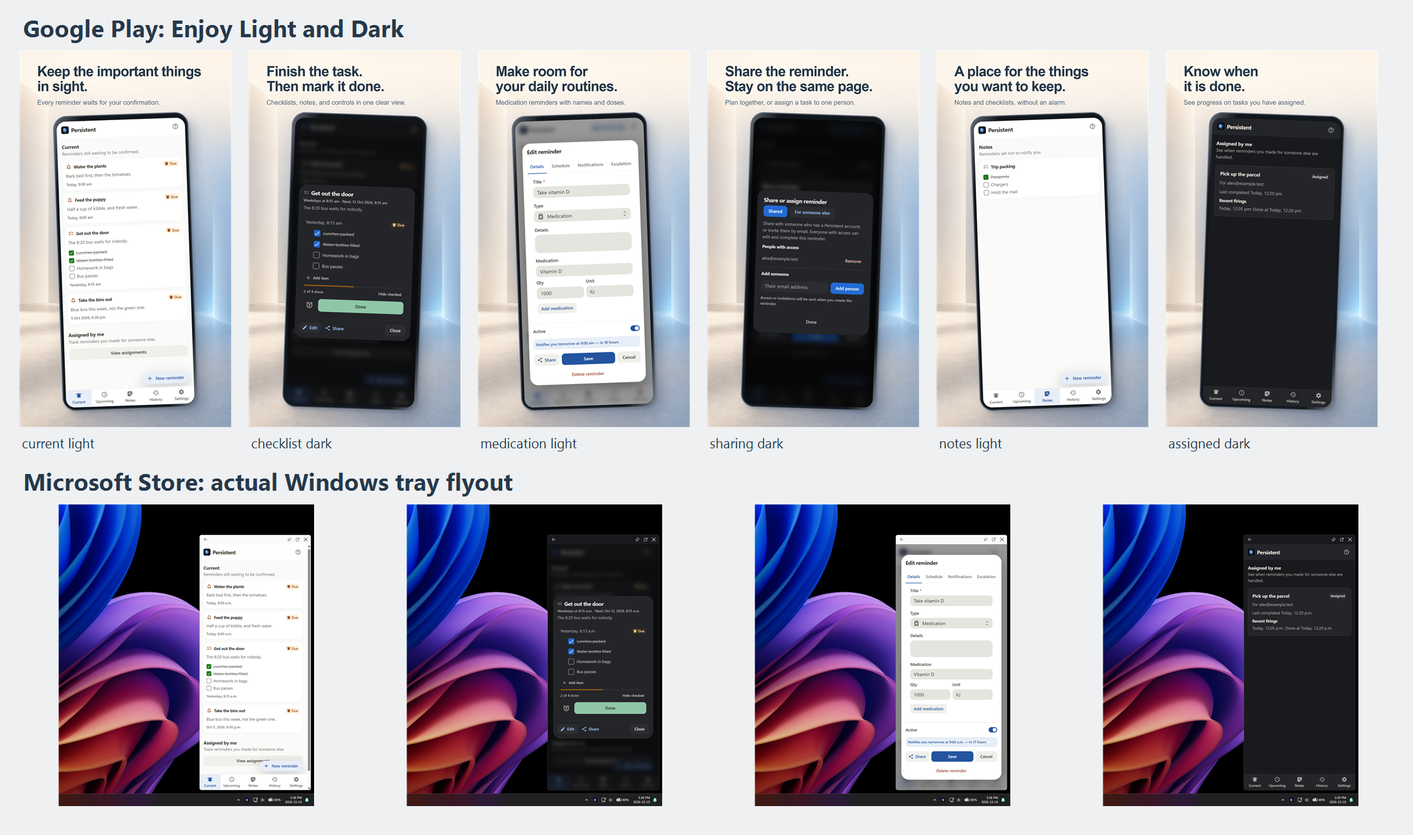
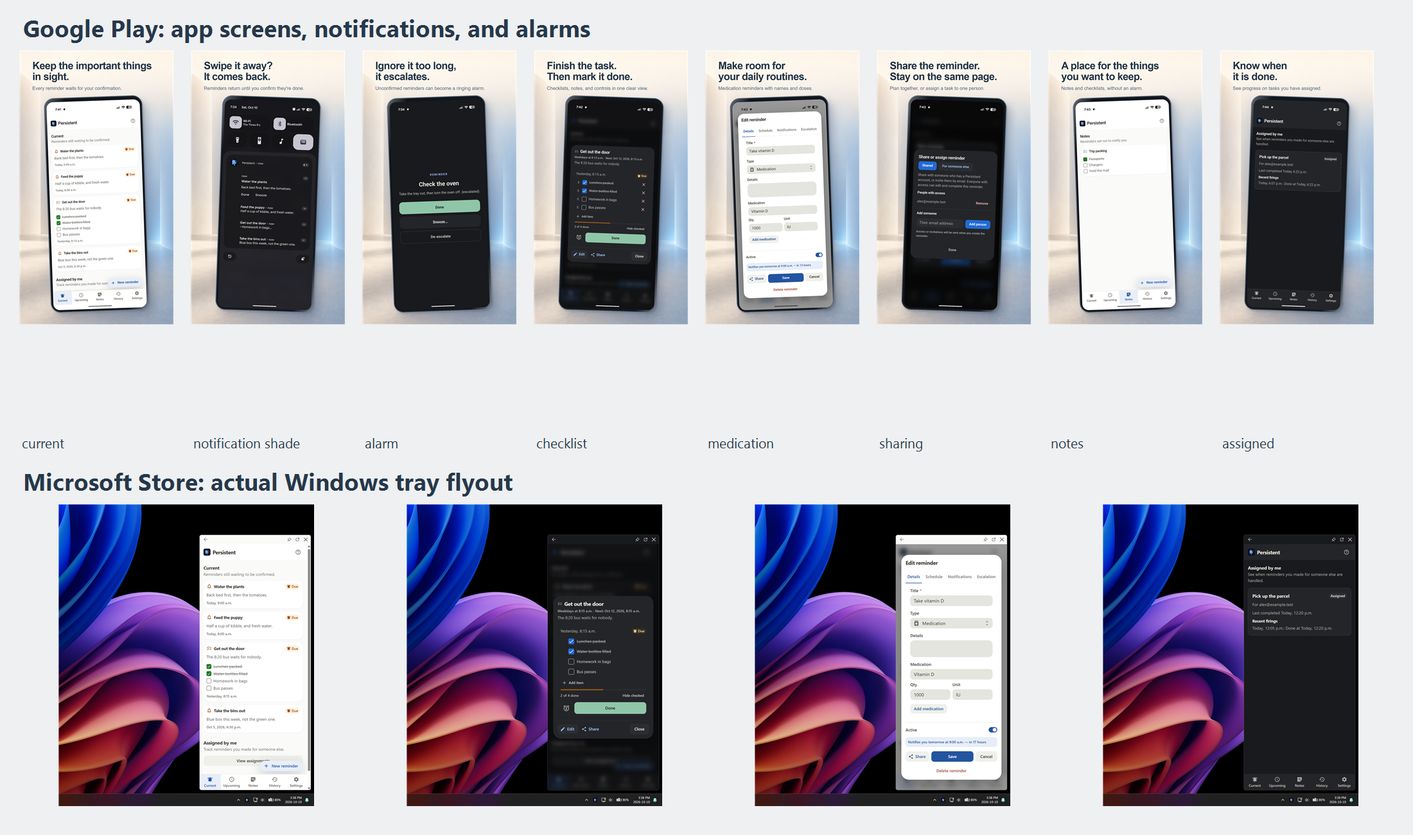
Refresh Play screenshots with native notifications and escalation
Capture all eight views on the isolated Pixel demo app with real status and gesture bars. Put returning notifications and ignored-reminder escalation near the start of the carousel, without duplicate reminders, unrelated notification icons, or theme names in image copy.

Update the repeatable capture workflow, listing gallery, root embeds, mobile guidance and screenshot skill. Reviewed desktop and notification contracts, auth/data isolation, environment settings, build descriptors and script comments. Native device data stays synthetic; no personal app data or domain queries change. Store checks and repository validation pass. Align the development SDK with the existing Android overlay.

Changed region(s): [[0.0, 0.0308, 0.9891, 0.5538]]

diff --git a/scripts/dev/render-store-assets.ts b/scripts/dev/render-store-assets.ts
@@ -42,7 +42,7 @@ const review = `<!doctype html><html lang="en"><meta charset="utf-8"><title>Pers
 <style>
 * { box-sizing: border-box; } body { margin: 0; padding: 28px; width: 1440px; height: 730px; background: #eef0f2; color: #26384a; font: 16px Arial, sans-serif; }
 h1 { font-size: 26px; margin: 0 0 16px; } h2 { font-size: 20px; margin: 20px 0 12px; }
-.play { display: grid; grid-template-columns: repeat(6,1fr); gap: 14px; }
+.play { display: grid; grid-template-columns: repeat(${manifest.play.length},1fr); gap: 14px; }
 .desktop { display: grid; grid-template-columns: repeat(4,1fr); gap: 14px; }
 figure { margin: 0; } img { width: 100%; display: block; border-radius: 6px; }
 .play img { height: 390px; object-fit: contain; } .desktop img { height: 178px; object-fit: contain; }

diff --git a/scripts/dev/store-assets.ts b/scripts/dev/store-assets.ts
@@ -92,6 +92,7 @@ function check(): void {
     if (store !== 'play' && store !== 'microsoft') continue
     if (selectedStore && selectedStore !== store) continue
     if (shots.length < 4) throw new Error(`${store}: expected at least four curated screenshots`)
+    if (store === 'play' && shots.length > 8) throw new Error('play: the carousel supports at most eight screenshots')
     for (const shot of shots) {
       const png = readFileSync(resolve('store-assets', shot.file))
       const { width, height } = validateStoreImage(png, store)

diff --git a/store-assets/README.md b/store-assets/README.md
@@ -20,22 +20,86 @@ Sign in to that account on the local development origin. The development email-c
 
 ## Google Play
 
-Use the existing shared Paseo tab. Set its viewport to **448 x 998 CSS pixels**. Capture these six scenarios in manifest order:
+Use the isolated demo Android app on the physical phone, following the native
+capture setup below. Capture the full display for all eight images, including the
+real status area and gesture bar. Both bars must be readable against the selected
+theme, and unrelated notification icons must be absent. Do not add simulated
+system chrome or hide another app's notifications without permission. Capture
+these six app scenarios; the manifest determines final carousel order:
 
 1. Current, Enjoy Light. The plants, puppy, and part-completed morning checklist are visible.
 2. Open “Get out the door” in its reading dialog, Enjoy Dark. Do not toggle items or Done.
 3. Edit “Take vitamin D”, Enjoy Light, showing the synthetic medicine name and 1000 IU dose. Do not save.
-4. Create a draft reminder and open Share, Enjoy Dark. Stage `alex@example.test` in the dialog without saving or sending an invitation. Use `browser_type` for controlled fields and verify their state; `browser_fill` can report success without updating React state.
+4. Create a draft reminder and open Share, Enjoy Dark. Stage `alex@example.test` in the dialog without saving or sending an invitation. Use ordinary input or the existing debug WebView endpoint for controlled fields and verify their state.
 5. Notes, Enjoy Light, showing “Trip packing”.
 6. Assigned by me, Enjoy Dark, showing the completed synthetic parcel pickup.
 
-Save the PNG image block from each Paseo screenshot to the `source` path in the manifest. The helper accepts base64 on stdin: `node --import tsx scripts/dev/store-assets.ts save store-assets/raw/android/...png`. It never logs image data. Keep raw captures alongside the final exports so future caption/frame edits do not require recapturing the UI.
+The final carousel also includes the real notification shade and alarm described
+below, immediately after Current, for eight images total. Eight is the Play
+carousel limit. Keep marketing copy focused on the feature; do not put theme
+names in the exported images. The notification image leads with the defining
+behavior: swiping a reminder away does not complete it, and it returns until the
+user explicitly confirms completion.
+
+Save each full native capture to the `source` path in the manifest after the RGB conversion below. For Paseo composition exports, the helper accepts base64 on stdin: `node --import tsx scripts/dev/store-assets.ts save store-assets/raw/android/...png`. It never logs image data. Keep raw captures alongside the final exports so future caption/frame edits do not require recapturing the UI.
 
 Run `npm run shots:render`. Navigate the Paseo tab to each generated HTML layout through Vite, for example `http://localhost:<web-port>/@fs/workspace/store-assets/render/00-current-light.html`. Set **720 x 1280 CSS pixels**, wait for the captured image to load, then screenshot. On the current Windows Paseo host, DPR 1.5 produces **1080 x 1920**. Check actual dimensions, rather than assuming the host's DPR. If another host differs, adjust the CSS viewport and renderer canvas together to produce the same export dimensions.
 
 The mockups use a small alternating angle and reusable CSS phone frame. The app pixels come exclusively from the raw screenshots. The saved background and generation prompt are in `marketing/`; reuse them for consistency. Google recommends avoiding device imagery and skew, but this carousel deliberately includes those stylized mockups at Ryan's request.
 
 After inspection, run `npm run shots:sync`. It validates all exports, copies the curated Play files into `../apps/mobile/store/graphics/screenshots/`, and removes superseded PNGs from that upload directory. README embeds the same files. Preserve native permission demonstration videos, which serve a separate purpose.
+
+### Real Android capture setup and native scenarios
+
+Use an explicitly authorized physical-device session and the `test-android-device`
+skill. Read the shared home-devices guide before connecting to `phone.home`;
+wireless debugging ports rotate. Keep the phone unlocked with the shared helper's
+temporary input keepalive, never by changing display or lock settings.
+
+Keep the Store app and its personal account intact. Use the separate direct-debug
+package, `ca.persistent.app`, with the protected demo account. In the existing Node
+development container, build with `PERSISTENT_ANDROID_DEV_URL=http://localhost:5173
+npm run android:build`, then install only the direct-debug APK. Forward the device's
+port 5173 to the local web port with `adb -s <serial> reverse tcp:5173 tcp:<web-port>`.
+Confirm the synthetic account in the app before proceeding. Enable notifications
+and display-over-other-apps only for this demo package through the ordinary Android
+permission screens. Both packages are named Persistent, so verify `ca.persistent.app`
+and the demo version on App Info before changing a Settings toggle.
+
+For the shade, expand the real Persistent notification group and the plant
+reminder until Done and Snooze are visible. Do not press either. Inspect for
+personal notifications and network names before saving an asset. Any crop or
+retouch needs an explicit framing decision; do not clear personal notifications
+or change network settings to clean up the shot.
+
+For the escalation alarm, select Enjoy Dark and let its native appearance synchronize. Create
+one temporary synthetic reminder named "Check the oven", with body "Take the tray
+out, then turn the oven off.", When set to Now, persistence set to Persistent,
+and escalation set to one minute. Use the ordinary app/API flow and leave the
+reminder unconfirmed until it actually escalates. Capture after the native launch
+animation settles, with Done, Snooze, and De-escalate visible. Verify there are no
+other app notification icons in the status bar. Then force-stop only the demo package
+to stop the sound promptly. Delete only the newly created reminder from the
+verified local demo account. Never press Done for a screenshot.
+
+Capture the actual screen with `adb -s <serial> exec-out screencap -p > <path>.png`.
+The Pixel 9 Pro source is 960 x 2142. Android captures are RGBA; run
+`scripts/dev/convert-store-capture.ps1` with `-InputPath` and `-OutputPath` to save
+the same dimensions and pixels as Store-compatible RGB. It uses the existing
+Windows image runtime. If RemoteSigned rejects a WSL UNC script, execute a
+reviewed copy from an owned Windows TEMP path, then remove that copy. Do not
+change execution policy or install an image tool.
+
+Use the saved native PNG in the manifest and render it through Paseo in the same
+phone composition as the app screens. After capturing, force-stop the demo app,
+remove this session's ADB reverse/forward mappings and on-device inspection files,
+and stop its owned keepalive. Leave the Store app, personal data, pairing keys,
+and original display timeout unchanged.
+
+Inspect immediately before each capture: live Android notifications can arrive
+while waiting. Keep only Persistent's notification icon and the ordinary Android
+status indicators in exported native screenshots. Obtain approval for any retouch
+or unrelated notification dismissal; an already clean real capture is preferable.
 
 ## Microsoft Store
 
@@ -66,9 +130,13 @@ Verify the original settings and Store process are restored, then remove only th
 
 ## Verify and review
 
-Run `npm run shots:check` and `npm run validate`. Generate the contact sheet without a browser using Windows PowerShell 7: `scripts/dev/render-store-review.ps1 -AssetsRoot <absolute Windows path to store-assets>`. It reads the saved PNGs and writes `review.png`, without changing the store exports. The HTML renderer also writes `render/review.html` for interactive review. Inspect all ten final images, not just dimensions: no clipped dialogs, loading frames, missing labels, personal data, stale themes, or duplicate reminder cards. Keep Play text above the phone and concise. Record the tested source revision and capture date when refreshing; do not upload screenshots for a theme that has not shipped without coordinating the app update.
+Run `npm run shots:check` and `npm run validate`. Generate the contact sheet without a browser using Windows PowerShell 7: `scripts/dev/render-store-review.ps1 -AssetsRoot <absolute Windows path to store-assets>`. It reads the saved PNGs and writes `review.png`, without changing the store exports. The HTML renderer also writes `render/review.html` for interactive review. Both previews adapt to the manifest's Play image count. Inspect every final image, not just dimensions: no clipped dialogs, loading frames, missing labels, personal data, stale themes, or duplicate reminder cards. Keep Play text above the phone and concise. Record the tested source revision and capture date when refreshing; do not upload screenshots for a theme that has not shipped without coordinating the app update.
 
-The Microsoft set was captured October 10, 2026 from the development working tree. Microsoft uses the sideloaded 0.5.8.2 native app; Play app content is browser-captured, with no native alarm or notification-shade claim.
+The Microsoft set was captured October 10, 2026 from the development working tree,
+using the sideloaded 0.5.8.2 native app. Play uses eight full-display Pixel 9 Pro captures. The six app views include
+the theme-aware Android status icon and gesture bar fix at `5310573`; the
+notification and escalation captures were taken from source revision `b3c0500`.
+The native capture provenance is recorded in `raw/android/native/README.md`.
 
 ## Publishing an approved refresh
 

diff --git a/apps/mobile/store/listing.md b/apps/mobile/store/listing.md
@@ -111,7 +111,7 @@ apps/mobile/store/listing.md --check` before publishing.
 | --- | --- | --- |
 | App icon | 512×512 PNG, 32-bit, no transparency | ✅ `graphics/play-icon.png` |
 | Feature graphic | 1024×500 PNG/JPG, no transparency | ✅ `graphics/feature-graphic.png` |
-| Phone screenshots | 2–8, min 320px, 16:9 or 9:16 | ✅ 6 in `graphics/screenshots/` (see below) |
+| Phone screenshots | 2–8, min 320px, 16:9 or 9:16 | ✅ 8 in `graphics/screenshots/` (see below) |
 | 7" / 10" tablet screenshots | optional | ❌ optional |
 
 Sources are `graphics/*.svg`; re-render with
@@ -120,14 +120,15 @@ Sources are `graphics/*.svg`; re-render with
 ### Capturing more
 
 Use the [repeatable store screenshot workflow](../../../store-assets/README.md).
-It prepares a protected synthetic demo account, captures current app screens in
-the shared Paseo browser, and renders reusable phone mockups. `npm run shots`
+It prepares a protected synthetic demo account, captures all eight source screens
+in the isolated Android demo app, and renders reusable phone mockups through the
+shared Paseo browser. `npm run shots`
 prints the workflow entrypoint; it does not launch or install a browser.
 
 **Always capture against the demo account, never a real one.** The owner's real
 account contains actual prescriptions; a Play listing is public and permanent.
-Native alarm and notification-shade shots require a separately requested device
-session. Keep native permission demonstration videos separate from the carousel.
+Native captures require a separately requested device session. Every image
+includes the real status area and gesture bar, with no unrelated notification icons. Keep native permission demonstration videos separate from the carousel.
 
 ---
 
@@ -216,30 +217,37 @@ forms before marking this complete.
 
 ## Captured screenshots
 
-All six live in `graphics/screenshots/`, captured in Paseo against the seeded demo
-account with synthetic health data only. The Enjoy Light/Dark app captures are
-composed inside reusable phone mockups. All exports are 1080 x 1920 RGB PNGs.
+All eight live in `graphics/screenshots/`, using the seeded demo account with
+synthetic health data only. All eight are full-display Pixel 9 Pro captures with
+the real status area and gesture bar, and no unrelated notification icons.
+All are composed in Paseo
+inside reusable phone mockups, with 1080 x 1920 RGB PNG exports. Marketing copy
+describes the feature without theme names.
 Ordered as they should appear in Play:
 
 | File | Shows | Theme |
 | --- | --- | --- |
 | `00-current-light.png` | Current reminders for plants, puppy, and the morning checklist | Enjoy Light |
-| `01-checklist-dark.png` | Reading dialog with a part-completed checklist and reminder controls below it | Enjoy Dark |
-| `02-medication-light.png` | Synthetic vitamin reminder editor with medicine name and 1000 IU dose | Enjoy Light |
-| `03-sharing-dark.png` | Share or assign dialog with a staged sample recipient | Enjoy Dark |
-| `04-notes-light.png` | Trip-packing note checklist, without an alarm | Enjoy Light |
-| `05-assigned-dark.png` | Assigned by me status with a synthetic completion record | Enjoy Dark |
+| `01-notification-shade.png` | Four distinct reminders, native Done and Snooze actions, and copy explaining that swiped notifications return until confirmed | Android system |
+| `02-alarm-dark.png` | Real ignored-reminder escalation into an alarm with Done, Snooze, and De-escalate controls | Enjoy Dark |
+| `03-checklist-dark.png` | Reading dialog with a part-completed checklist and reminder controls below it | Enjoy Dark |
+| `04-medication-light.png` | Synthetic vitamin reminder editor with medicine name and 1000 IU dose | Enjoy Light |
+| `05-sharing-dark.png` | Share or assign dialog with a staged sample recipient | Enjoy Dark |
+| `06-notes-light.png` | Trip-packing note checklist, without an alarm | Enjoy Light |
+| `07-assigned-dark.png` | Assigned by me status with a synthetic completion record | Enjoy Dark |
 
-The root README embeds `00`, `01`, and `03` from this directory, without separate
-copies. Native alarm and notification-shade shots were replaced with current app
-screens for this browser-based refresh. Native permission videos remain separate.
+The root README embeds `00`, `03`, and `05` from this directory, without separate
+copies. Native permission videos remain separate.
 No screen repeats a reminder as two near-identical cards.
 
 ### Regenerating
 
 Use [store-assets/README.md](../../../store-assets/README.md) and its manifest.
-Prepare the synthetic fixture once, capture the six app screens through the shared
-Paseo browser, then render the phone layouts and capture their final exports:
+Prepare the synthetic fixture, capture all eight screens in the isolated Android
+demo app through the authorized device session, then render
+the phone layouts and capture their final exports. If waiting has allowed another
+scheduled firing to create duplicate demo cards, refresh the protected fixture
+before capture and synchronize the demo app again:
 
 ```sh
 npm run shots:prepare -- --email=ryan.ewen+persistentdemo@gmail.com
@@ -248,7 +256,7 @@ npm run shots:check
 npm run shots:sync
 ```
 
-`shots:prepare` runs in the isolated development stack; the browser capture steps
+`shots:prepare` runs in the isolated development stack; the capture and render steps
 between commands are documented in the workflow. `shots:sync` replaces the local
 upload directory only. Publish the listing separately when requested.
 

diff --git a/store-assets/raw/android/native/README.md b/store-assets/raw/android/native/README.md
@@ -1,0 +1,42 @@
+# Native Android capture provenance
+
+Captured October 10, 2026 on Ryan's Pixel 9 Pro using native source `b3c0500` for the shade and alarm. The six app views use
+the theme-aware status icon and gesture bar fix committed as `5310573`. The separate direct-debug package is `ca.persistent.app`, with the
+local debug version label 0.21.1. It loads the local development app through an
+ADB reverse connection and is signed in only to the protected synthetic demo
+account. The installed Store package and its signed-in personal account were
+preserved.
+
+- `00-current-light.png`, `03-checklist-dark.png`, `04-medication-light.png`,
+  `05-sharing-dark.png`, `06-notes-light.png`, and `07-assigned-dark.png`: actual
+  full-display app screens with the real status area and gesture bar. Light themes
+  use dark system icons, and dark themes use light icons. Only Persistent's
+  notification icon is present. The sharing recipient is staged in an unsaved
+  draft, and the medication editor was not saved.
+- `01-notification-shade.png`: actual Android shade with four distinct demo
+  reminders, and the plant reminder's real Done and Snooze controls expanded.
+  Ryan approved retaining the full shade, including the Wi-Fi network name.
+- `02-alarm-dark.png`: actual native escalation of a temporary "Check the oven"
+  reminder, created through the ordinary authenticated local API with Persistent
+  notifications and a one-minute escalation. It remained unconfirmed and then
+  showed the real alarm with Done, Snooze, and De-escalate. Its native appearance
+  was synchronized from Enjoy Dark. The demo app was force-stopped promptly after
+  capture, and only that newly created reminder was deleted. The replacement
+  capture has only Persistent's notification icon, with no Paseo or other app icon.
+
+All eight source captures are 960 x 2142. They were reencoded from opaque RGBA to
+24-bit RGB through `convert-store-capture.ps1`, without cropping, scaling, or
+retouching. Final phone compositions were captured in the shared Paseo browser
+at 720 x 1280 CSS pixels and DPR 1.5, producing 1080 x 1920 exports.
+
+No reminder was completed by a capture action. Notifications and overlay access
+were enabled only for the demo package using ordinary Android permission screens.
+Exact-alarm and full-screen-intent readiness also reported enabled. This session
+observed native notification actions and a real one-minute escalation into the
+alarm surface; it did not
+qualify offline delivery, lock-screen delivery, or swipe-return reliability.
+
+Cleanup: demo app force-stopped, temporary ADB forward/reverse mappings removed,
+on-device inspection XML removed, owned keepalive stopped, and phone returned to
+Paseo. The original 120000 ms display timeout was verified unchanged. The separate
+demo app remains installed and stopped for future refreshes.

diff --git a/store-assets/play/README.md b/store-assets/play/README.md
@@ -1,6 +1,6 @@
 # Google Play screenshot review
 
-Six 1080 x 1920 RGB PNGs, with real app captures and synthetic data. Both Enjoy themes are represented. Uploading is a separate step.
+Eight 1080 x 1920 RGB PNGs, with real app captures and synthetic data. Includes the real Android notification shade and escalation alarm. Uploading is a separate step.
 
 ## Keep the important things in sight.
 
@@ -8,32 +8,44 @@ Every reminder waits for your confirmation.
 
 ![Enjoy Light Current view with plants, puppy, and a part-completed morning checklist.](00-current-light.png)
 
+## Swipe it away? It comes back.
+
+Reminders return until you confirm they're done.
+
+![Real Pixel 9 Pro notification shade with four distinct synthetic reminders and expanded plant reminder Done and Snooze actions.](01-notification-shade.png)
+
+## Ignore it too long, it escalates.
+
+Unconfirmed reminders can become a ringing alarm.
+
+![Real Pixel 9 Pro escalated alarm for the synthetic Check the oven reminder, with native Done, Snooze, and De-escalate controls.](02-alarm-dark.png)
+
 ## Finish the task. Then mark it done.
 
 Checklists, notes, and controls in one clear view.
 
-![Enjoy Dark reading dialog with a morning checklist and Done and Snooze controls below it.](01-checklist-dark.png)
+![Enjoy Dark reading dialog with a morning checklist and Done and Snooze controls below it.](03-checklist-dark.png)
 
 ## Make room for your daily routines.
 
 Medication reminders with names and doses.
 
-![Synthetic vitamin D reminder editor in Enjoy Light with a 1000 IU dose.](02-medication-light.png)
+![Synthetic vitamin D reminder editor in Enjoy Light with a 1000 IU dose.](04-medication-light.png)
 
 ## Share the reminder. Stay on the same page.
 
 Plan together, or assign a task to one person.
 
-![Enjoy Dark sharing dialog with a staged synthetic recipient, Alex.](03-sharing-dark.png)
+![Enjoy Dark sharing dialog with a staged synthetic recipient, Alex.](05-sharing-dark.png)
 
 ## A place for the things you want to keep.
 
 Notes and checklists, without an alarm.
 
-![Enjoy Light Notes view showing a trip-packing checklist.](04-notes-light.png)
+![Enjoy Light Notes view showing a trip-packing checklist.](06-notes-light.png)
 
 ## Know when it is done.
 
 See progress on tasks you have assigned.
 
-![Enjoy Dark Assigned by me view with synthetic parcel pickup completion.](05-assigned-dark.png)
+![Enjoy Dark Assigned by me view with synthetic parcel pickup completion.](07-assigned-dark.png)

diff --git a/.agents/skills/store-screenshots/SKILL.md b/.agents/skills/store-screenshots/SKILL.md
@@ -7,7 +7,10 @@ Read [the capture workflow](../../../store-assets/README.md). The manifest owns 
 
 Prepare the dedicated demo fixture in the isolated development database. Verify the signed-in account before capturing; never seed or capture a personal account. Reuse the existing seeded scenarios, including the synthetic vitamin dose and sample recipient. Do not complete reminders or send invitations for a screenshot.
 
-Use the shared Paseo browser for app screens and mockup rendering. If the host cannot paint a screenshot, request activation of the existing tab and continue independent work. Do not install or launch a separate browser.
+Use full-display captures from the isolated Android demo app for every Play source
+screen, including the real status area and gesture bar. Verify readable system
+icons in both themes and no unrelated app notification icons. Use the shared Paseo
+browser for mockup rendering. If the host cannot paint a screenshot, request activation of the existing tab and continue independent work. Do not install or launch a separate browser.
 
 Microsoft images must contain the actual Windows tray flyout and its native chrome. Use the desktop skill's installation bridge, then the isolated capture session helper. Preserve the original settings and Store app, restore them after capture, and remove the separate dev package. Use the default 420 x 960 DIP tray placement and capture the real wallpaper and taskbar around the flyout at native resolution. Hide unrelated windows and other app tray icons before capture; do not substitute a plain canvas or retouch icons without approval. Restore any temporary window changes.
 

diff --git a/apps/mobile/AGENTS.md b/apps/mobile/AGENTS.md
@@ -76,10 +76,13 @@ Use the [repeatable store capture workflow](../../store-assets/README.md) and
 `.agents/skills/store-screenshots/SKILL.md`. `npm run shots` prints the entrypoint;
 `shots:prepare` creates only the protected synthetic demo fixture, `shots:render`
 generates reusable phone layouts, and `shots:check` validates final PNG exports.
-Capture app screens and layouts in the shared Paseo browser. Do not install a
-standalone browser for this workflow. Native alarm and notification-shade images
-require an explicitly requested device session; this refresh uses current app
-screens instead. Keep native permission demonstration videos separate.
+Capture all Play source screens in an explicitly requested device session using
+the isolated demo Android app. Preserve the real status area and gesture bar on
+every image, with readable system icons and no unrelated notification icons.
+Render the marketing layouts in the shared Paseo browser; do not install a
+standalone browser for this workflow. Follow the workflow's permission, account, and cleanup
+steps; preserve the signed-in Store app. Keep native permission demonstration
+videos separate.
 
 `store/listing.md` owns the listing copy and published screenshot set. The manual
 `play-listing` workflow (`scripts/play-publish.mjs --listing`) uploads both, only

diff --git a/README.md b/README.md
@@ -33,8 +33,8 @@
 <!-- These are the same synthetic-data mockups used by the Play listing. -->
 <p align="center">
   <img src="apps/mobile/store/graphics/screenshots/00-current-light.png" alt="Current reminders in Enjoy Light" height="400">
-  <img src="apps/mobile/store/graphics/screenshots/01-checklist-dark.png" alt="Checklist and reminder controls in Enjoy Dark" height="400">
-  <img src="apps/mobile/store/graphics/screenshots/03-sharing-dark.png" alt="Sharing dialog with a staged sample recipient in Enjoy Dark" height="400">
+  <img src="apps/mobile/store/graphics/screenshots/03-checklist-dark.png" alt="Checklist and reminder controls in Enjoy Dark" height="400">
+  <img src="apps/mobile/store/graphics/screenshots/05-sharing-dark.png" alt="Sharing dialog with a staged sample recipient in Enjoy Dark" height="400">
 </p>
 
 Most reminder apps fire once and are easy to swipe away. Persistent keeps
